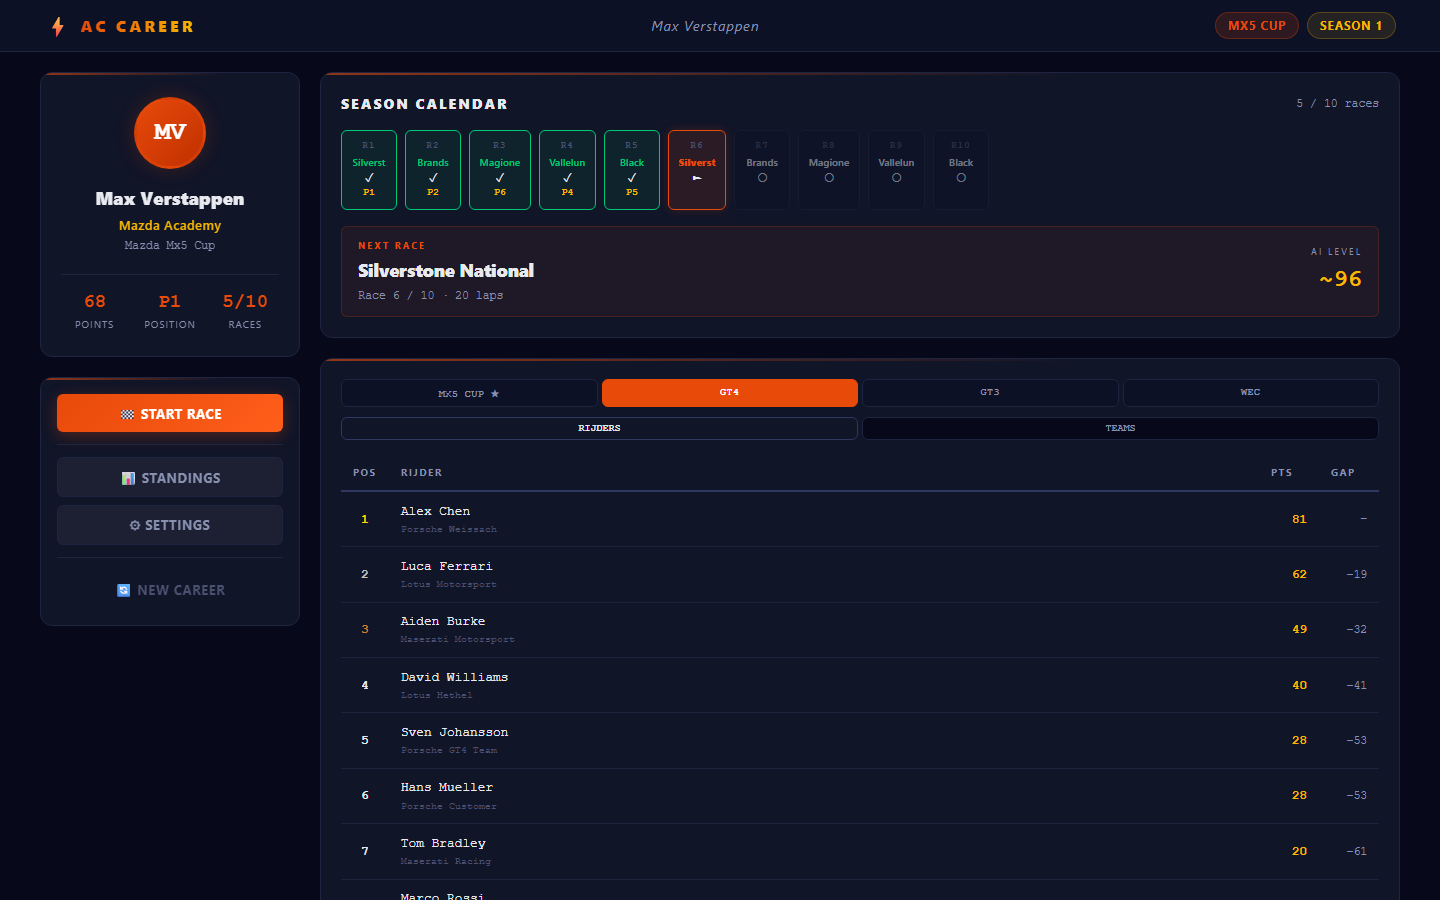
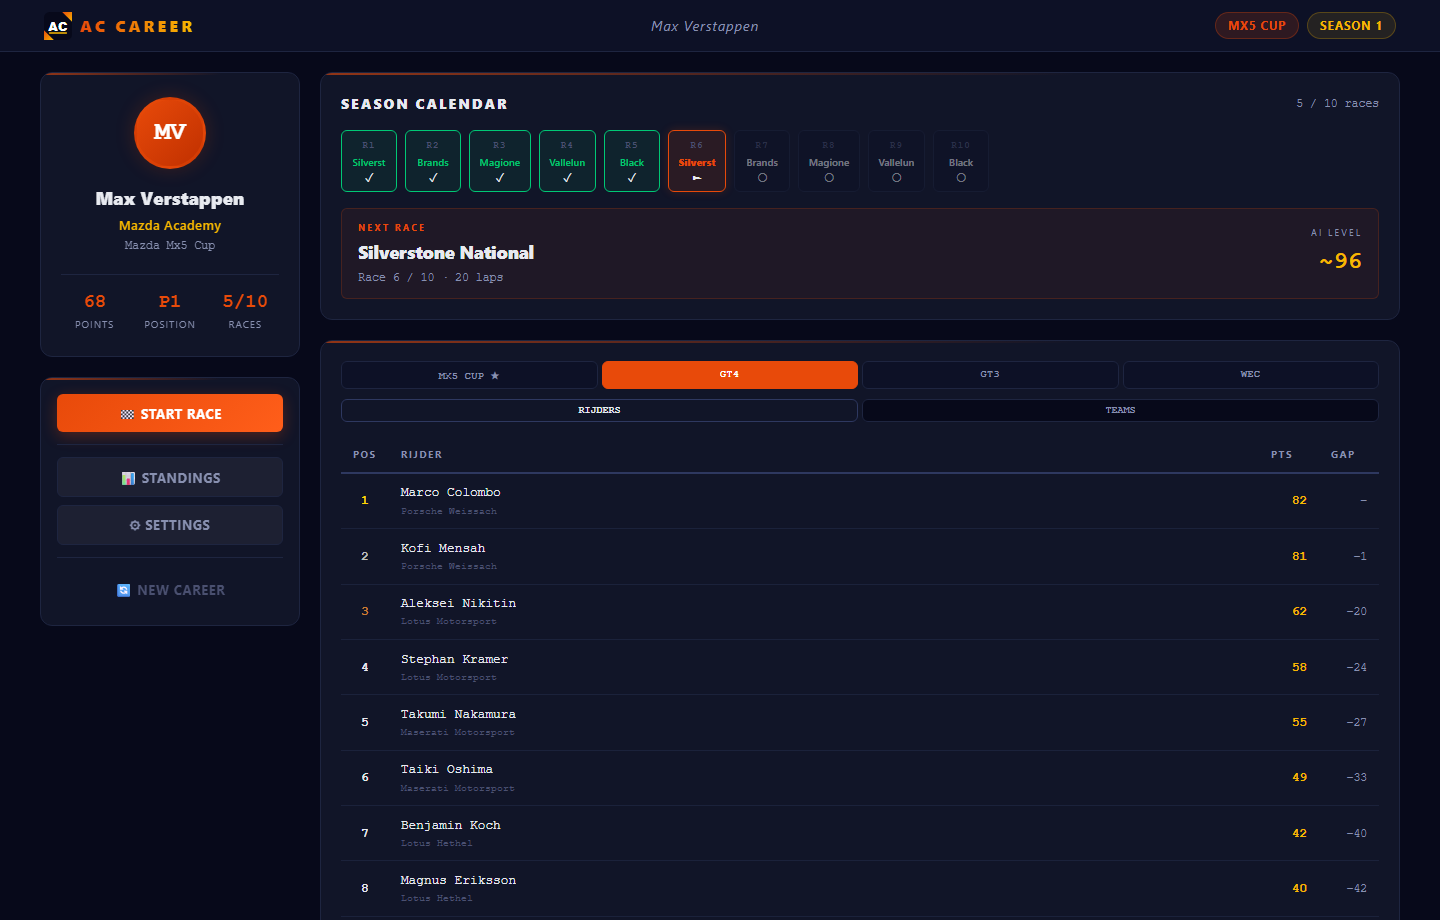
docs: update screenshots and README for v1.6.0
- New dashboard.png: shows AC logo in topbar (v1.6.0)
- New race_modal.png: Race Details modal with Full Weekend / Race Only
- New standings_gt4.png: GT4 championship driver standings
- New standings_wec.png: WEC championship driver standings
- README: added GT4/WEC screenshots, updated download label to v1.6.0

diff --git a/README.md b/README.md
@@ -32,12 +32,14 @@ AC Career Manager is a complete professional career mode system for Assetto Cors
 
 ![Dashboard](docs/screenshots/dashboard.png)
 ![Race Modal](docs/screenshots/race_modal.png)
+![GT4 Standings](docs/screenshots/standings_gt4.png)
+![WEC Standings](docs/screenshots/standings_wec.png)
 
 ---
 
 ## DOWNLOAD
 
-**[⬇ Download AC_Career_Manager.exe (v1.5.0)](https://github.com/corveck79/ac-career-manager/releases/latest/download/AC_Career_Manager.exe)**
+**[⬇ Download AC_Career_Manager.exe (v1.6.0)](https://github.com/corveck79/ac-career-manager/releases/latest/download/AC_Career_Manager.exe)**
 
 - Windows 10/11 only
 - No Python installation needed
